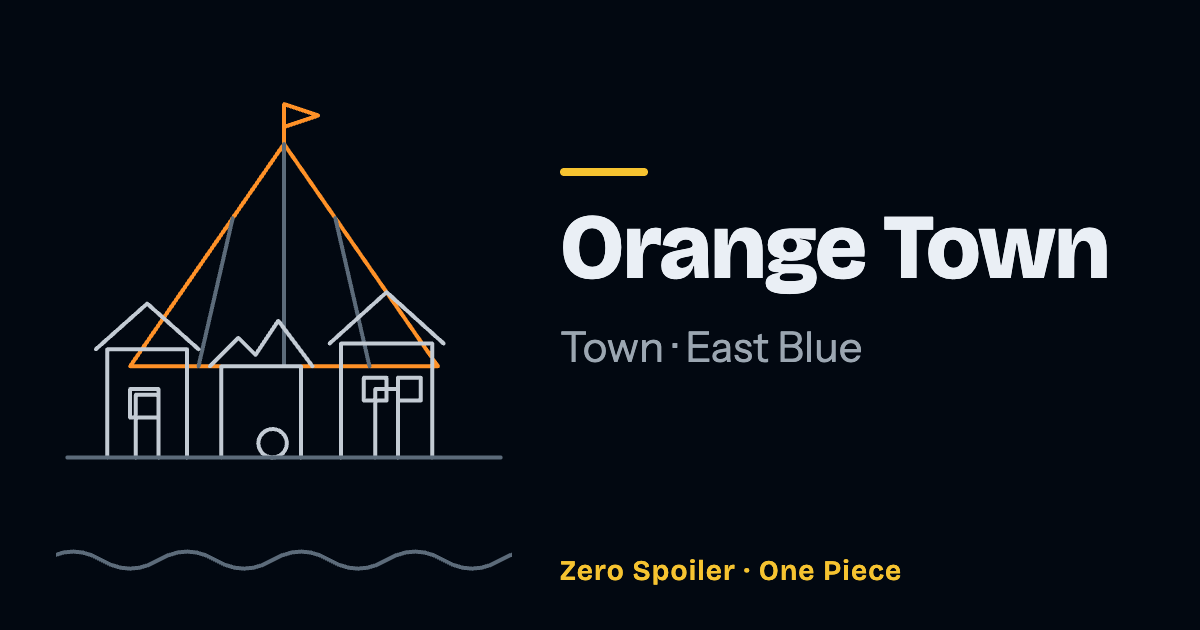
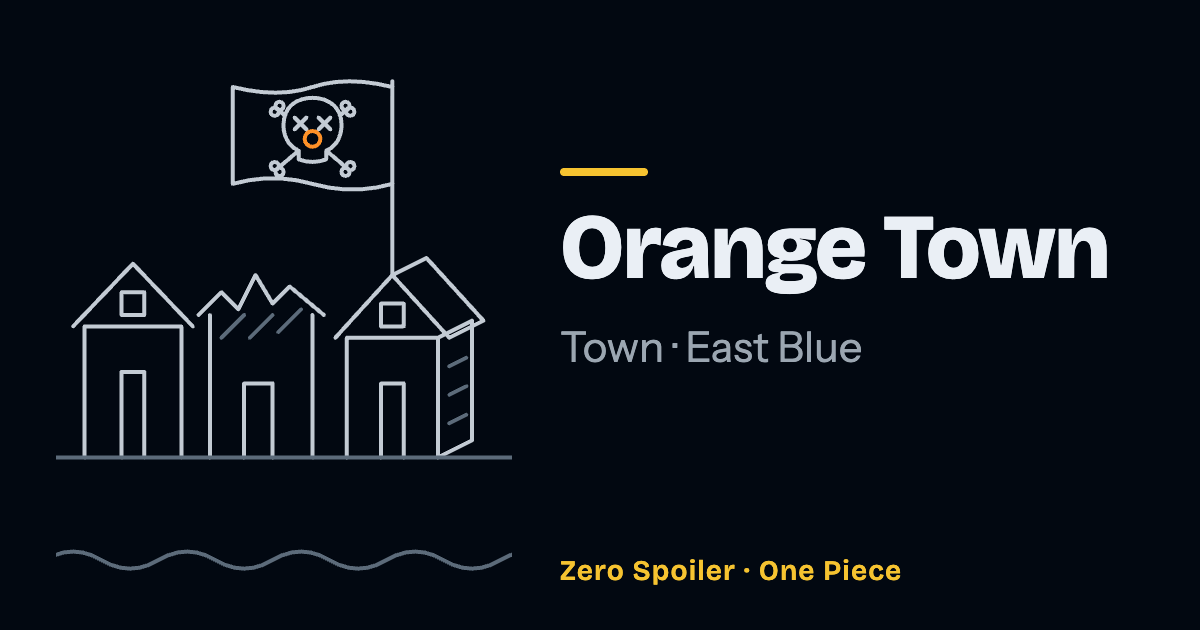
feat(orange-town): draw the town with the pirates' flag, not an invented big top (#1201)

Changed region(s): [[0.0617, 0.1206, 0.4008, 0.7238]]

diff --git a/src/data/series/one-piece/art/east-blue.ts b/src/data/series/one-piece/art/east-blue.ts
@@ -1116,18 +1116,27 @@ export const eastBlueArt = {
     shadow(80, 176, 62),
   ],
 
-  // A row of house fronts, one roof already broken by a cannonball, and the
-  // pirates' big top rising behind them.
+  // A row of house fronts by the sea, the middle roof broken open by a Buggy
+  // Ball, the end house turning its side away, and the Buggy Pirates' Jolly
+  // Roger flying from a pole over the roofs. The town is chapter 8, episode 5;
+  // the ball levels a row of houses in chapter 10, the same episode.
   'orange-town': [
-    { d: 'M80 40 L26 118 H134z', role: 'accent' },
-    { d: 'M80 40 V26 l12 4 l-12 4', role: 'accent' },
-    { d: 'M62 66 L50 118 M80 40 V118 M98 66 L110 118', role: 'ambient' },
-    { d: house(18, 28, 112, 96) },
-    { d: 'M58 150 V118 h28 V150 M54 118 L64 108 L70 114 L78 102 L90 118' },
-    { d: house(100, 32, 110, 92) },
-    { d: 'M26 126 h10 v10 h-10z M108 122 h8 v8 h-8z M120 122 h8 v8 h-8z' },
-    { d: circle(76, 145, 5) },
-    { d: 'M4 150 H156', role: 'ambient' },
+    { d: house(10, 34, 104, 82) },
+    {
+      d: 'M54 150 V100 M90 150 V100 M50 100 L58 92 L64 98 L70 86 L76 96 L82 90 L94 100',
+    },
+    { d: 'M58 108 l8 -8 M68 108 l8 -8 M78 106 l8 -8', role: 'ambient' },
+    { d: house(102, 32, 108, 86) },
+    { d: 'M118 86 L130 80 L150 102 L138 108 M134 108 L146 102 V144 L134 150' },
+    { d: 'M138 118 l6 -3 M138 128 l6 -3 M138 138 l6 -3', role: 'ambient' },
+    {
+      d: 'M23 92 h8 v8 h-8z M66 150 V124 h10 V150 M114 96 h8 v8 h-8z',
+      role: 'soft',
+    },
+    { d: 'M118 86 V18' },
+    { d: 'M118 20 Q102 16 90 20 T62 20 V54 Q76 50 90 54 T118 54' },
+    ...moved(BUGGY_JOLLY_ROGER, 'translate(90 37) scale(0.6)'),
+    { d: 'M0 150 H160', role: 'ambient' },
     ...SEA.slice(2),
   ],
 

diff --git a/src/data/series/one-piece/places.ts b/src/data/series/one-piece/places.ts
@@ -69,10 +69,10 @@ const PLACE_DOSSIERS: Record<string, OnePiecePlace> = {
     region: 'east-blue',
     form: 'town',
     arc: 'orange-town-arc',
-    landmark: { it: 'Il tendone dei pirati', en: 'The pirates’ big top' },
+    landmark: { it: 'La fila di case', en: 'The row of houses' },
     log: {
-      it: 'Il capitano ci è caduto dentro dal cielo, lasciato andare da un uccello, nel mezzo di un inseguimento tra una ladra e tre pirati. Le strade sono vuote, le case ancora intere tranne quelle che i cannoni hanno già raggiunto, e la ciurma che occupa la piazza ha una nave, un tendone e una carta nautica che qualcuno le ha appena rubato.',
-      en: 'The captain fell into it from the sky, dropped by a bird, in the middle of a chase between a thief and three pirates. The streets are empty, the houses still whole except where the cannons have already reached, and the crew holding the square has a ship, a big top and a sea chart that somebody has just stolen from it.',
+      it: 'Il capitano ci è caduto dentro dal cielo, lasciato andare da un uccello gigante su cui i pirati avevano aperto il fuoco, proprio dove alcuni della loro ciurma inseguivano una ladra. Lei aveva appena rubato loro una mappa.',
+      en: 'The captain fell into it from the sky, dropped by a giant bird the pirates had opened fire on, right where some of their crew were chasing a thief. She had just stolen a map from them.',
     },
     filedHere: ['nami', 'buggy', 'chouchou', 'richie', 'boodle'],
   },

diff --git a/src/data/series/one-piece/records/east-blue.ts b/src/data/series/one-piece/records/east-blue.ts
@@ -270,8 +270,8 @@ export const eastBlue: OnePieceSaga = {
       revealedAtChapter: 8,
       name: { it: 'Orange Town', en: 'Orange Town' },
       summary: {
-        it: 'Una cittadina di porto svuotata dei suoi abitanti, occupata da una ciurma di pirati che ha piantato un tendone in piazza e tiene il cannone carico.',
-        en: 'A harbour town emptied of its people, held by a pirate crew that has pitched a big top in the square and keeps its cannon loaded.',
+        it: 'Una cittadina dove alcuni uomini di una ciurma di pirati inseguono una ladra che ha appena rubato loro una mappa.',
+        en: 'A town where some men of a pirate crew chase a thief who has just stolen their map.',
       },
       visual: { art: 'orange-town-arc', tint: 'orange' },
     },
@@ -307,8 +307,8 @@ export const eastBlue: OnePieceSaga = {
       revealedAtChapter: 8,
       name: { it: 'Orange Town', en: 'Orange Town' },
       summary: {
-        it: 'Una cittadina dell’East Blue svuotata dai suoi abitanti, occupata da una ciurma di pirati con un tendone da circo e i cannoni puntati sui tetti.',
-        en: 'An East Blue town its people have fled, occupied by a pirate crew with a circus tent and cannons trained on the roofs.',
+        it: 'Una cittadina dell’East Blue dove una ciurma di pirati apre il fuoco su un uccello gigante.',
+        en: 'An East Blue town where a pirate crew opens fire on a giant bird.',
       },
       visual: { art: 'orange-town', tint: 'orange' },
     },
